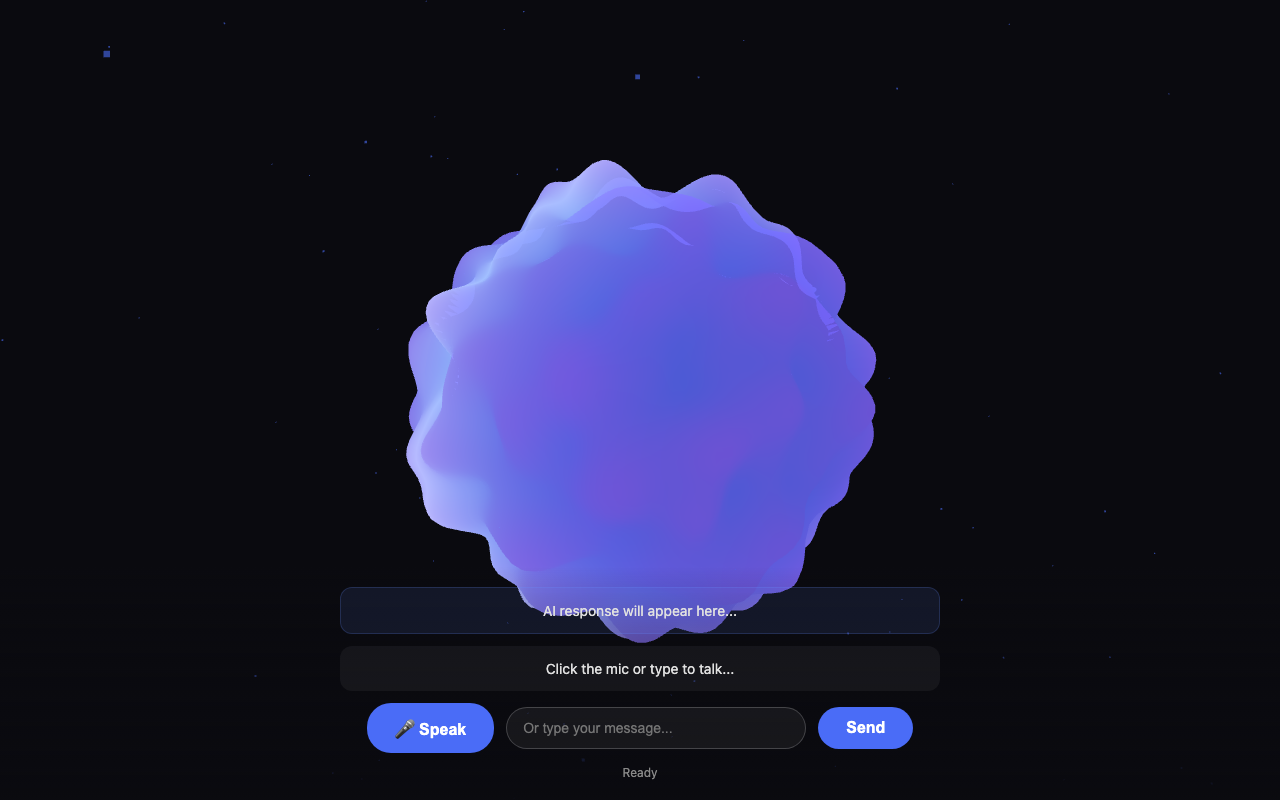
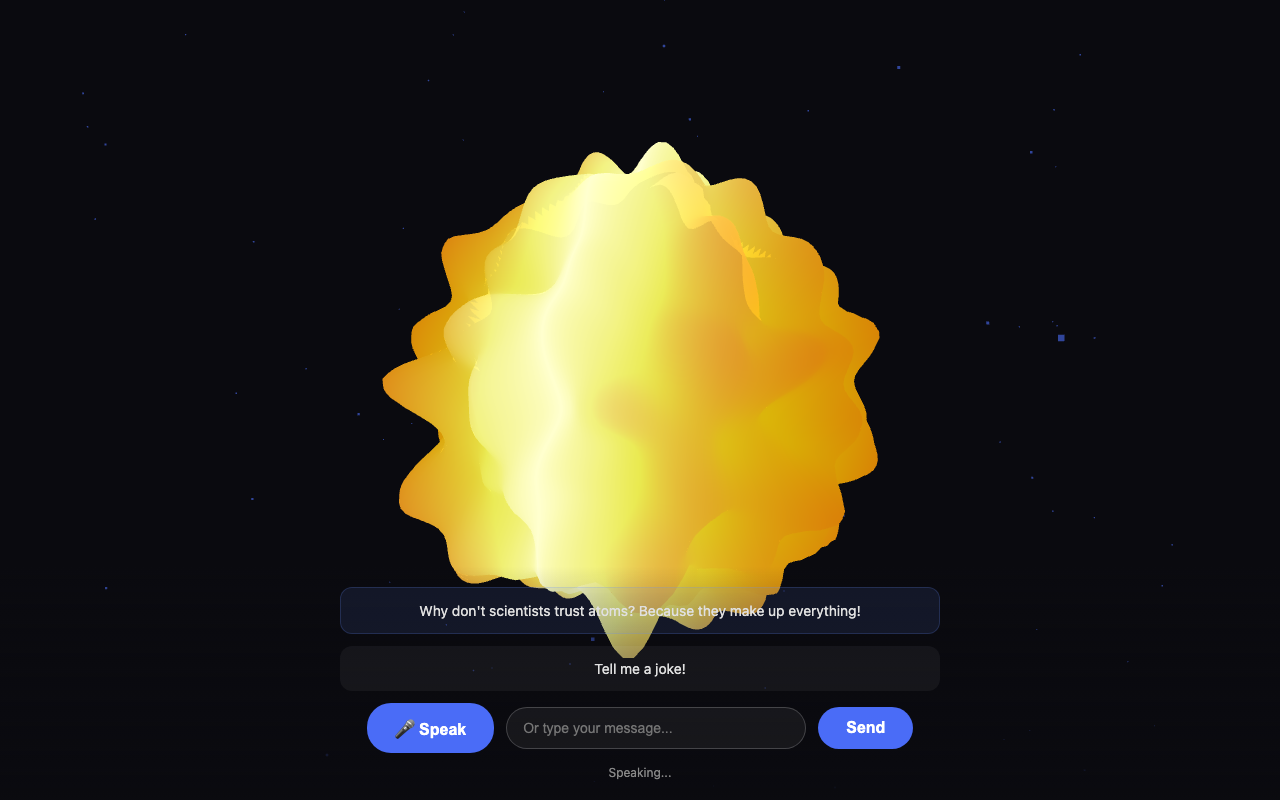
Add dotenv support and update screenshot with AI response
Load .env file for OPENAI_API_KEY, update screenshot showing the
sphere reacting to a happy mood after telling a joke.

Changed region(s): [[0.2812, 0.1562, 0.6875, 0.8438], [0.4688, 0.9375, 0.5, 0.9688]]

diff --git a/ai-personality/server.js b/ai-personality/server.js
@@ -1,3 +1,4 @@
+require('dotenv').config({ path: require('path').join(__dirname, '.env') });
 const express = require('express');
 const path = require('path');
 
